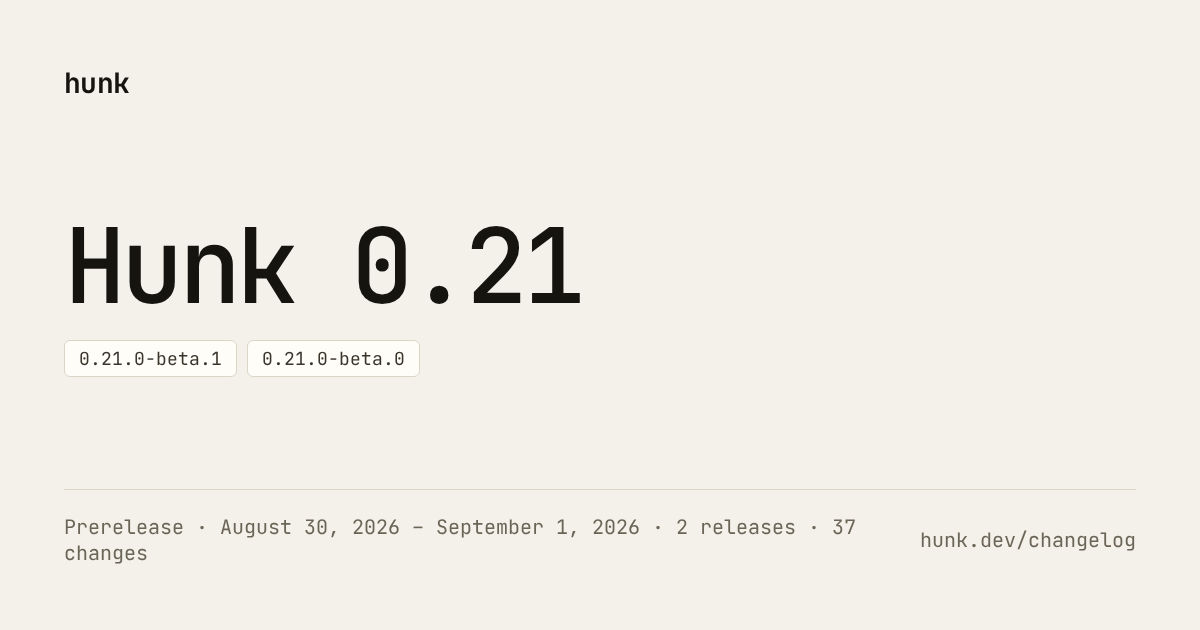
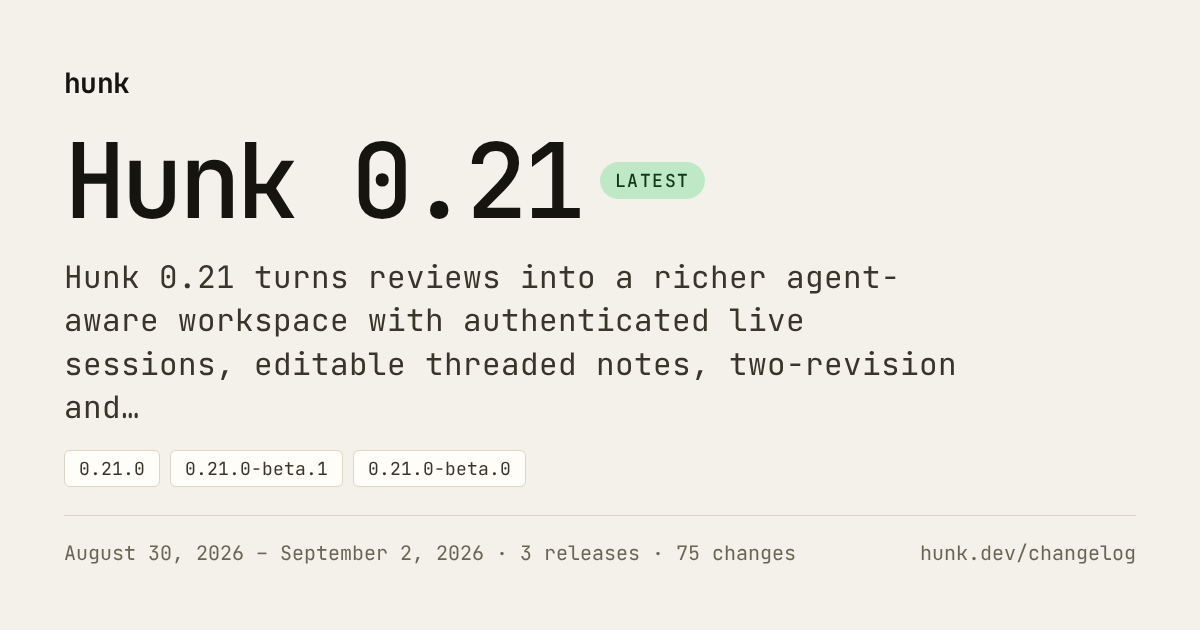
docs(release): publish v0.21.0 notes

diff --git a/website/src/content/docs/changelog/0.21.md b/website/src/content/docs/changelog/0.21.md
@@ -11,7 +11,7 @@ head:
   - tag: meta
     attrs:
       property: og:image:alt
-      content: "Hunk 0.21 release notes — Prerelease · August 30, 2026 – September 1, 2026 · 3 releases · 75 changes"
+      content: "Hunk 0.21 release notes — August 30, 2026 – September 2, 2026 · 3 releases · 75 changes"
   - tag: meta
     attrs:
       name: twitter:image
@@ -20,9 +20,23 @@ head:
 
 <!-- GENERATED by `bun run generate:changelog`. Edit CHANGELOG.md or website/releases/notes.json instead. -->
 
-Prerelease · August 30, 2026 – September 1, 2026 · 3 releases
+August 30, 2026 – September 2, 2026 · 3 releases
 
 Hunk 0.21 turns reviews into a richer agent-aware workspace with authenticated live sessions, editable threaded notes, two-revision and two-file comparisons, more responsive navigation, and a broader extension surface.
+
+New to Hunk? Use the default installer. It verifies downloads when release checksums and local tooling are available, and warns otherwise:
+
+```sh
+curl -fsSL https://hunk.dev/install.sh | sh
+```
+
+Already on Hunk 0.20 or newer with the default install script, npm, or Homebrew? Move to this release with Hunk's canonical update command:
+
+```sh
+hunk update
+```
+
+On an older Hunk release, update once through the installer or package manager that installed it, then use `hunk update`. mise, Nix, source, and custom-directory installs remain owned by their own update workflows. This is the current release; see [all install options](/docs/start/install/).
 
 ## Related documentation
 
@@ -37,7 +51,7 @@ Hunk 0.21 turns reviews into a richer agent-aware workspace with authenticated l
 
 ### 0.21.0
 
-Unreleased
+September 2, 2026
 
 #### Minor Changes
 

diff --git a/website/src/content/docs/changelog/0.20.md b/website/src/content/docs/changelog/0.20.md
@@ -24,19 +24,11 @@ August 25, 2026 – August 29, 2026 · 2 releases
 
 Hunk 0.20 adds a one-line installer with conditional checksum verification and self-updates, launches a directory of 12 community extensions, and makes line-level reviewing faster and more precise.
 
-New to Hunk? Use the default installer. It verifies downloads when release checksums and local tooling are available, and warns otherwise:
-
 ```sh
-curl -fsSL https://hunk.dev/install.sh | sh
+npm i -g hunkdiff@0.20.1
 ```
 
-Already on Hunk 0.20 or newer with the default install script, npm, or Homebrew? Move to this release with Hunk's canonical update command:
-
-```sh
-hunk update
-```
-
-On an older Hunk release, update once through the installer or package manager that installed it, then use `hunk update`. mise, Nix, source, and custom-directory installs remain owned by their own update workflows. This is the current release; see [all install options](/docs/start/install/).
+Hunk 0.20 is no longer the current release. See [the latest release](/changelog/) or [all install options](/docs/start/install/).
 
 ## Related documentation
 

diff --git a/website/src/content/docs/changelog/index.md b/website/src/content/docs/changelog/index.md
@@ -24,13 +24,13 @@ head:
 
 ## [Hunk 0.21](/changelog/0.21/)
 
-Prerelease · August 30, 2026 – September 1, 2026 · 3 releases · 75 changes
+Latest · August 30, 2026 – September 2, 2026 · 3 releases · 75 changes
 
 Hunk 0.21 turns reviews into a richer agent-aware workspace with authenticated live sessions, editable threaded notes, two-revision and two-file comparisons, more responsive navigation, and a broader extension surface.
 
 ## [Hunk 0.20](/changelog/0.20/)
 
-Latest · August 25, 2026 – August 29, 2026 · 2 releases · 14 changes
+August 25, 2026 – August 29, 2026 · 2 releases · 14 changes
 
 Hunk 0.20 adds a one-line installer with conditional checksum verification and self-updates, launches a directory of 12 community extensions, and makes line-level reviewing faster and more precise.
 
